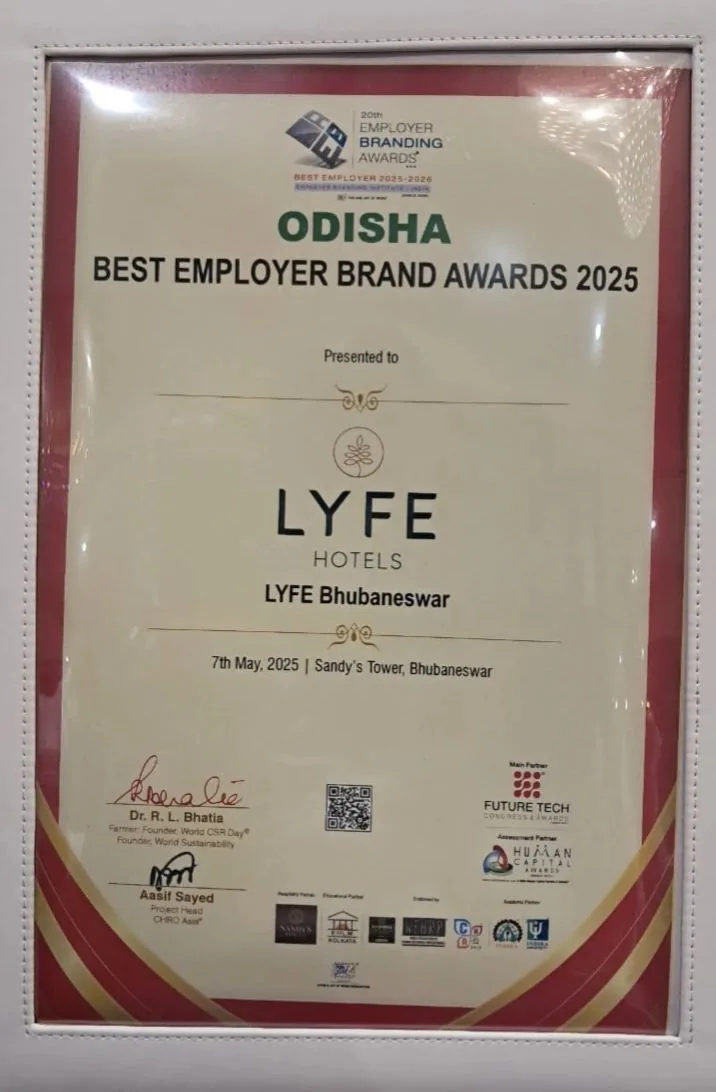
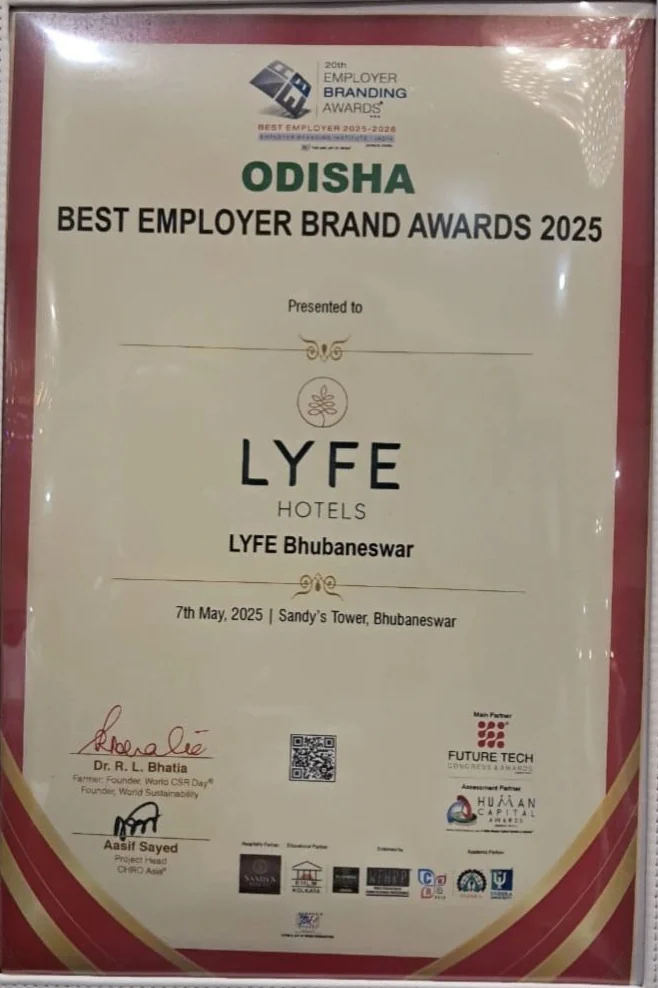
Founder page: awards gallery with coins, pins, Taj and Noga Hilton certificates and naval wallet; tighter certificate crops; schema and llms files updated

diff --git a/founder.html b/founder.html
@@ -46,6 +46,18 @@
 .test-count{font-size:.78rem;letter-spacing:.08em;color:rgba(13,27,42,.6);min-width:64px;text-align:center}
 @media (prefers-reduced-motion:reduce){.test-grid.is-carousel{scroll-behavior:auto}}
 @media(max-width:700px){.test-grid.is-carousel .test-card{min-height:360px}}
+
+/* awards and commendations gallery (23 Oct 2026): consistent frames, certificates shown whole */
+.award-grid{display:grid;grid-template-columns:repeat(auto-fill,minmax(250px,1fr));gap:28px}
+.award-card{background:#fff;border:1px solid rgba(13,27,42,.1);box-shadow:0 1px 2px rgba(13,27,42,.05),0 14px 30px -18px rgba(13,27,42,.35);display:flex;flex-direction:column;margin:0}
+.award-img{background:#f5f4ef;height:300px;padding:20px;display:flex;align-items:center;justify-content:center;gap:12px;border-bottom:1px solid rgba(13,27,42,.08)}
+.award-img img{max-width:100%;max-height:100%;width:auto;height:auto;object-fit:contain;box-shadow:0 8px 20px -10px rgba(13,27,42,.55);background:#fff}
+.award-img[data-lightbox-group] img{max-width:calc(50% - 6px)}
+.award-cap{padding:20px 22px 24px;text-align:left}
+.award-year{font-size:.7rem;letter-spacing:.12em;text-transform:uppercase;color:#a57426;margin:0 0 8px}
+.award-title{font-family:'Source Serif 4',serif;font-weight:400;font-size:1.08rem;line-height:1.35;color:#0D1B2A;margin:0 0 6px}
+.award-note{font-size:.8rem;line-height:1.55;color:rgba(13,27,42,.6);margin:0}
+@media(max-width:640px){.award-grid{grid-template-columns:1fr}.award-img{height:280px}}
 </style>
 <script type="application/ld+json">
 {
@@ -64,24 +76,34 @@
       },
       "description": "Independent hotel owner advisor with more than 25 years in hospitality across India, the Maldives, Kuwait and the USA, including General Manager roles since 2015. Founder of Veritas Hospitality Advisors.",
       "hasCredential": "Diploma in Hospitality Management, Institut Hôtelier César Ritz, Switzerland (2001)",
-      "alumniOf": {
-        "@type": "CollegeOrUniversity",
-        "name": "Institut Hotelier Cesar Ritz",
-        "address": {
-          "@type": "PostalAddress",
-          "addressCountry": "CH"
+      "alumniOf": [
+        {
+          "@type": "CollegeOrUniversity",
+          "name": "Institut Hotelier Cesar Ritz",
+          "address": {
+            "@type": "PostalAddress",
+            "addressCountry": "CH"
+          }
+        },
+        {
+          "@type": "Organization",
+          "name": "Noga Hilton Genève",
+          "description": "Room Service trainee, December 2000 to June 2001"
         }
-      },
+      ],
       "award": [
         "Best General Manager in Odisha 2024–25",
         "Odisha Best Employer Award 2025",
         "CMO Asia Most Influential General Managers 2025",
         "IGBC Green Crusader designation, World Earth Day 2025",
-        "Taj Award for Empowerment",
+        "Taj Award for Empowerment 2006–07 — Certificate of Excellence, Taj Garden Retreat, Kumarakom",
         "Fortune Hotels (ITC Hotels group) award for highest sales across the brand, Q2 2019",
         "TripAdvisor Certificate of Excellence — Keys Hotels Chennai 2015",
         "Coin of Appreciation — CENTCOM & US Military",
         "Coin of Appreciation — Indian Navy",
+        "Coin of Appreciation — Chairman, Joint Chiefs of Staff (USA)",
+        "Coin of Excellence — US Army Criminal Investigation Command",
+        "Coin of Appreciation — US Air Force expeditionary support group, Kuwait",
         "Lapel — US Secret Service",
         "Lapel — US Department of Homeland Security",
         "Rotors — Commanding Officer, INS Garuda, Ernakulam",
@@ -777,64 +799,107 @@ picture{display:contents}picture>source{display:none}
     <div style="margin-top:64px">
       <p style="font-size:.65rem;letter-spacing:.14em;text-transform:uppercase;color:rgba(13,27,42,.4);margin-bottom:12px">Recognition</p>
       <h3 style="font-family:'Source Serif 4',serif;font-weight:300;font-size:clamp(1.2rem,1.8vw,1.6rem);color:#0D1B2A;line-height:1.15;margin-bottom:40px">Awards, certifications, and commendations.</h3>
-      <div data-lightbox style="display:grid;grid-template-columns:repeat(auto-fit,minmax(200px,1fr));gap:24px">
-
-        <div style="background:#f5f4ef;border:1px solid rgba(13,27,42,.08);padding:24px;display:flex;flex-direction:column;align-items:center;gap:16px">
-          <div style="width:100%;height:160px;display:flex;align-items:center;justify-content:center;overflow:hidden">
-            <picture><source srcset="img/tripadvisor-cert-keys-chennai-2015.webp" type="image/webp"><img loading="lazy" decoding="async" width="960" height="636" src="img/tripadvisor-cert-keys-chennai-2015.jpg" alt="TripAdvisor Certificate of Excellence 2015 — Keys Katti-Ma Hotel Chennai" style="max-width:100%;max-height:160px;object-fit:contain"></picture>
+      <div class="award-grid" data-lightbox>
+        <article class="award-card">
+          <div class="award-img">
+            <picture><source srcset="img/odisha-best-employer-cert-2025.webp" type="image/webp"><img loading="lazy" decoding="async" width="658" height="988" src="img/odisha-best-employer-cert-2025.jpg" alt="Odisha Best Employer Brand Awards 2025 — LYFE Hotels Bhubaneswar"></picture>
           </div>
-          <div style="text-align:center">
-            <p style="font-size:.72rem;letter-spacing:.1em;text-transform:uppercase;color:#a57426;margin-bottom:6px">2015</p>
-            <p style="font-size:.85rem;color:#0D1B2A;font-weight:500;margin-bottom:4px">TripAdvisor Certificate of Excellence</p>
-            <p style="font-size:.78rem;color:rgba(13,27,42,.5)">Keys Katti-Ma Hotel, Chennai</p>
+          <div class="award-cap">
+            <p class="award-year">2025</p>
+            <h4 class="award-title">Best Employer Brand Award</h4>
+            <p class="award-note">Odisha Employer Brand Awards</p>
           </div>
-        </div>
-
-        <div style="background:#f5f4ef;border:1px solid rgba(13,27,42,.08);padding:24px;display:flex;flex-direction:column;align-items:center;gap:16px">
-          <div style="width:100%;height:160px;display:flex;align-items:center;justify-content:center;overflow:hidden">
-            <picture><source srcset="img/igbc-green-crusader-cert-2025.webp" type="image/webp"><img loading="lazy" decoding="async" width="1179" height="928" src="img/igbc-green-crusader-cert-2025.jpg" alt="IGBC Green Crusader Certificate 2025" style="max-width:100%;max-height:160px;object-fit:contain"></picture>
+        </article>
+        <article class="award-card">
+          <div class="award-img">
+            <picture><source srcset="img/cmo-asia-influential-gm-cert-2025.webp" type="image/webp"><img loading="lazy" decoding="async" width="752" height="1118" src="img/cmo-asia-influential-gm-cert-2025.jpg" alt="CMO Asia Odisha's Most Influential General Managers 2025"></picture>
           </div>
-          <div style="text-align:center">
-            <p style="font-size:.72rem;letter-spacing:.1em;text-transform:uppercase;color:#a57426;margin-bottom:6px">2025</p>
-            <p style="font-size:.85rem;color:#0D1B2A;font-weight:500;margin-bottom:4px">IGBC Green Crusader Award</p>
-            <p style="font-size:.78rem;color:rgba(13,27,42,.5)">Indian Green Building Council</p>
+          <div class="award-cap">
+            <p class="award-year">2025</p>
+            <h4 class="award-title">Most Influential GMs — Odisha</h4>
+            <p class="award-note">CMO Asia</p>
           </div>
-        </div>
-
-        <div style="background:#f5f4ef;border:1px solid rgba(13,27,42,.08);padding:24px;display:flex;flex-direction:column;align-items:center;gap:16px">
-          <div style="width:100%;height:160px;display:flex;align-items:center;justify-content:center;overflow:hidden">
-            <picture><source srcset="img/odisha-best-employer-cert-2025.webp" type="image/webp"><img loading="lazy" decoding="async" width="716" height="1092" src="img/odisha-best-employer-cert-2025.jpg" alt="Odisha Best Employer Brand Awards 2025 — LYFE Hotels Bhubaneswar" style="max-width:100%;max-height:160px;object-fit:contain"></picture>
+        </article>
+        <article class="award-card">
+          <div class="award-img">
+            <picture><source srcset="img/igbc-green-crusader-cert-2025.webp" type="image/webp"><img loading="lazy" decoding="async" width="1164" height="826" src="img/igbc-green-crusader-cert-2025.jpg" alt="IGBC Green Crusader Certificate 2025"></picture>
           </div>
-          <div style="text-align:center">
-            <p style="font-size:.72rem;letter-spacing:.1em;text-transform:uppercase;color:#a57426;margin-bottom:6px">2025</p>
-            <p style="font-size:.85rem;color:#0D1B2A;font-weight:500;margin-bottom:4px">Best Employer Brand Award</p>
-            <p style="font-size:.78rem;color:rgba(13,27,42,.5)">Odisha Employer Brand Awards</p>
+          <div class="award-cap">
+            <p class="award-year">2025</p>
+            <h4 class="award-title">IGBC Green Crusader Award</h4>
+            <p class="award-note">Indian Green Building Council</p>
           </div>
-        </div>
-
-        <div style="background:#f5f4ef;border:1px solid rgba(13,27,42,.08);padding:24px;display:flex;flex-direction:column;align-items:center;gap:16px">
-          <div style="width:100%;height:160px;display:flex;align-items:center;justify-content:center;overflow:hidden">
-            <picture><source srcset="img/cmo-asia-influential-gm-cert-2025.webp" type="image/webp"><img loading="lazy" decoding="async" width="800" height="1223" src="img/cmo-asia-influential-gm-cert-2025.jpg" alt="CMO Asia Odisha's Most Influential General Managers 2025" style="max-width:100%;max-height:160px;object-fit:contain"></picture>
+        </article>
+        <article class="award-card">
+          <div class="award-img">
+            <picture><source srcset="img/tripadvisor-cert-keys-chennai-2015.webp" type="image/webp"><img loading="lazy" decoding="async" width="848" height="636" src="img/tripadvisor-cert-keys-chennai-2015.jpg" alt="TripAdvisor Certificate of Excellence 2015 — Keys Katti-Ma Hotel Chennai"></picture>
           </div>
-          <div style="text-align:center">
-            <p style="font-size:.72rem;letter-spacing:.1em;text-transform:uppercase;color:#a57426;margin-bottom:6px">2025</p>
-            <p style="font-size:.85rem;color:#0D1B2A;font-weight:500;margin-bottom:4px">Most Influential GMs — Odisha</p>
-            <p style="font-size:.78rem;color:rgba(13,27,42,.5)">CMO Asia</p>
+          <div class="award-cap">
+            <p class="award-year">2015</p>
+            <h4 class="award-title">TripAdvisor Certificate of Excellence</h4>
+            <p class="award-note">Keys Katti-Ma Hotel, Chennai</p>
           </div>
-        </div>
-
-        <div style="background:#f5f4ef;border:1px solid rgba(13,27,42,.08);padding:24px;display:flex;flex-direction:column;align-items:center;gap:16px">
-          <div data-lightbox-group style="width:100%;height:160px;display:flex;align-items:center;justify-content:center;gap:8px;overflow:hidden">
-            <picture><source srcset="img/radisson-kuwait-letterhead-autograph.webp" type="image/webp"><img loading="lazy" decoding="async" width="480" height="648" src="img/radisson-kuwait-letterhead-autograph.jpg" alt="Autograph of Barack Obama on Radisson SAS Hotel Kuwait letterhead, 2007–2010" style="max-width:46%;max-height:160px;object-fit:contain"></picture>
-            <picture><source srcset="img/dhs-homeland-security-letter.webp" type="image/webp"><img loading="lazy" decoding="async" width="480" height="642" src="img/dhs-homeland-security-letter.jpg" alt="US Department of Homeland Security letter of appreciation, 2007–2010" style="max-width:46%;max-height:160px;object-fit:contain"></picture>
+        </article>
+        <article class="award-card">
+          <div class="award-img" data-lightbox-group>
+            <picture><source srcset="img/radisson-kuwait-letterhead-autograph.webp" type="image/webp"><img loading="lazy" decoding="async" width="480" height="648" src="img/radisson-kuwait-letterhead-autograph.jpg" alt="Autograph of Barack Obama on Radisson SAS Hotel Kuwait letterhead, 2007–2010"></picture><picture><source srcset="img/dhs-homeland-security-letter.webp" type="image/webp"><img loading="lazy" decoding="async" width="378" height="582" src="img/dhs-homeland-security-letter.jpg" alt="US Department of Homeland Security letter of appreciation, 2007–2010"></picture>
           </div>
-          <div style="text-align:center">
-            <p style="font-size:.72rem;letter-spacing:.1em;text-transform:uppercase;color:#a57426;margin-bottom:6px">2007&ndash;2010</p>
-            <p style="font-size:.85rem;color:#0D1B2A;font-weight:500;margin-bottom:4px">Government Commendations</p>
-            <p style="font-size:.78rem;color:rgba(13,27,42,.5)">US Secret Service, US Department of Homeland Security</p>
+          <div class="award-cap">
+            <p class="award-year">2007&ndash;2010</p>
+            <h4 class="award-title">Government Commendations</h4>
+            <p class="award-note">US Secret Service, US Department of Homeland Security</p>
           </div>
-        </div>
-
+        </article>
+                <article class="award-card">
+          <div class="award-img">
+            <picture><source srcset="img/military-coins-of-appreciation-a.webp" type="image/webp"><img loading="lazy" decoding="async" width="675" height="386" src="img/military-coins-of-appreciation-a.jpg" alt="Coins of appreciation from US Central Command, a US Air Force group in Kuwait, US Army Criminal Investigation Command, the Chairman of the Joint Chiefs of Staff and the Indian Navy, 2007&ndash;2024"></picture>
+          </div>
+          <div class="award-cap">
+            <p class="award-year">2007&ndash;2024</p>
+            <h4 class="award-title">Coins of appreciation</h4>
+            <p class="award-note">US Central Command, US Army, US Air Force, the Chairman of the Joint Chiefs of Staff and the Indian Navy (INS Rajali)</p>
+          </div>
+        </article>
+        <article class="award-card">
+          <div class="award-img">
+            <picture><source srcset="img/naval-insignia-wallet-gift.webp" type="image/webp"><img loading="lazy" decoding="async" width="640" height="480" src="img/naval-insignia-wallet-gift.jpg" alt="Leather wallet embossed with the Indian Navy insignia, a parting gift from Vice Admiral Sameer Saxena, 2024"></picture>
+          </div>
+          <div class="award-cap">
+            <p class="award-year">2024</p>
+            <h4 class="award-title">Naval insignia wallet</h4>
+            <p class="award-note">A parting gift from Vice Admiral Sameer Saxena, AVSM NM, Indian Navy, after his stay at Lyfe Hotels</p>
+          </div>
+        </article>
+        <article class="award-card">
+          <div class="award-img">
+            <picture><source srcset="img/secret-service-and-homeland-security-lapel-pins.webp" type="image/webp"><img loading="lazy" decoding="async" width="690" height="255" src="img/secret-service-and-homeland-security-lapel-pins.jpg" alt="US Department of Homeland Security emblem and US Secret Service lapel pin, 2007&ndash;2010"></picture>
+          </div>
+          <div class="award-cap">
+            <p class="award-year">2007&ndash;2010</p>
+            <h4 class="award-title">Lapel pins</h4>
+            <p class="award-note">US Secret Service and US Department of Homeland Security</p>
+          </div>
+        </article>
+        <article class="award-card">
+          <div class="award-img">
+            <picture><source srcset="img/taj-award-empowerment-cert-2006-07.webp" type="image/webp"><img loading="lazy" decoding="async" width="468" height="626" src="img/taj-award-empowerment-cert-2006-07.jpg" alt="Taj Award for Empowerment certificate of excellence, Taj Garden Retreat Kumarakom, 2006&ndash;07"></picture>
+          </div>
+          <div class="award-cap">
+            <p class="award-year">2006&ndash;07</p>
+            <h4 class="award-title">Taj Award for Empowerment</h4>
+            <p class="award-note">Certificate of Excellence, Taj Garden Retreat, Kumarakom</p>
+          </div>
+        </article>
+        <article class="award-card">
+          <div class="award-img">
+            <picture><source srcset="img/nogahilton-geneve-training-cert-2001.webp" type="image/webp"><img loading="lazy" decoding="async" width="454" height="608" src="img/nogahilton-geneve-training-cert-2001.jpg" alt="Noga Hilton Gen&egrave;ve training certificate for a Room Service trainee, December 2000 to June 2001"></picture>
+          </div>
+          <div class="award-cap">
+            <p class="award-year">2000&ndash;2001</p>
+            <h4 class="award-title">Hotel training certificate</h4>
+            <p class="award-note">Noga Hilton Gen&egrave;ve, Room Service trainee, December 2000 to June 2001</p>
+          </div>
+        </article>
       </div>
     </div>
 

diff --git a/perspectives/sustainability-hotel-india.html b/perspectives/sustainability-hotel-india.html
@@ -267,7 +267,7 @@ picture{display:contents}picture>source{display:none}
   <p>CII designates properties that register under the Green Building Rating System as "IGBC Green Crusaders." The title is not a rating outcome; it is recognition of the decision to begin the formal process. On World Earth Day 2025, Lyfe Hotel Bhubaneswar (owned by Crackers India Infrastructure Ltd) received Green Crusader designation, having registered the property under IGBC. The engagement that led to that registration was led by Vaishakh Surendran as General Manager.</p>
 
   <figure style="margin:32px 0;background:#f5f4ef;border-radius:3px;overflow:hidden;display:flex;align-items:center;justify-content:center;padding:32px">
-    <picture><source srcset="../img/igbc-green-crusader-cert-2025.webp" type="image/webp"><img loading="lazy" decoding="async" width="1179" height="928" src="../img/igbc-green-crusader-cert-2025.jpg" alt="IGBC Green Crusader Award certificate — Crackers India Infrastructure / Lyfe Hotel Bhubaneswar, World Earth Day 2025" style="max-width:480px;width:100%;display:block"></picture>
+    <picture><source srcset="../img/igbc-green-crusader-cert-2025.webp" type="image/webp"><img loading="lazy" decoding="async" width="1164" height="826" src="../img/igbc-green-crusader-cert-2025.jpg" alt="IGBC Green Crusader Award certificate — Crackers India Infrastructure / Lyfe Hotel Bhubaneswar, World Earth Day 2025" style="max-width:480px;width:100%;display:block"></picture>
     <figcaption style="display:none">IGBC Green Crusader designation, Lyfe Hotel Bhubaneswar, 2025</figcaption>
   </figure>
 
